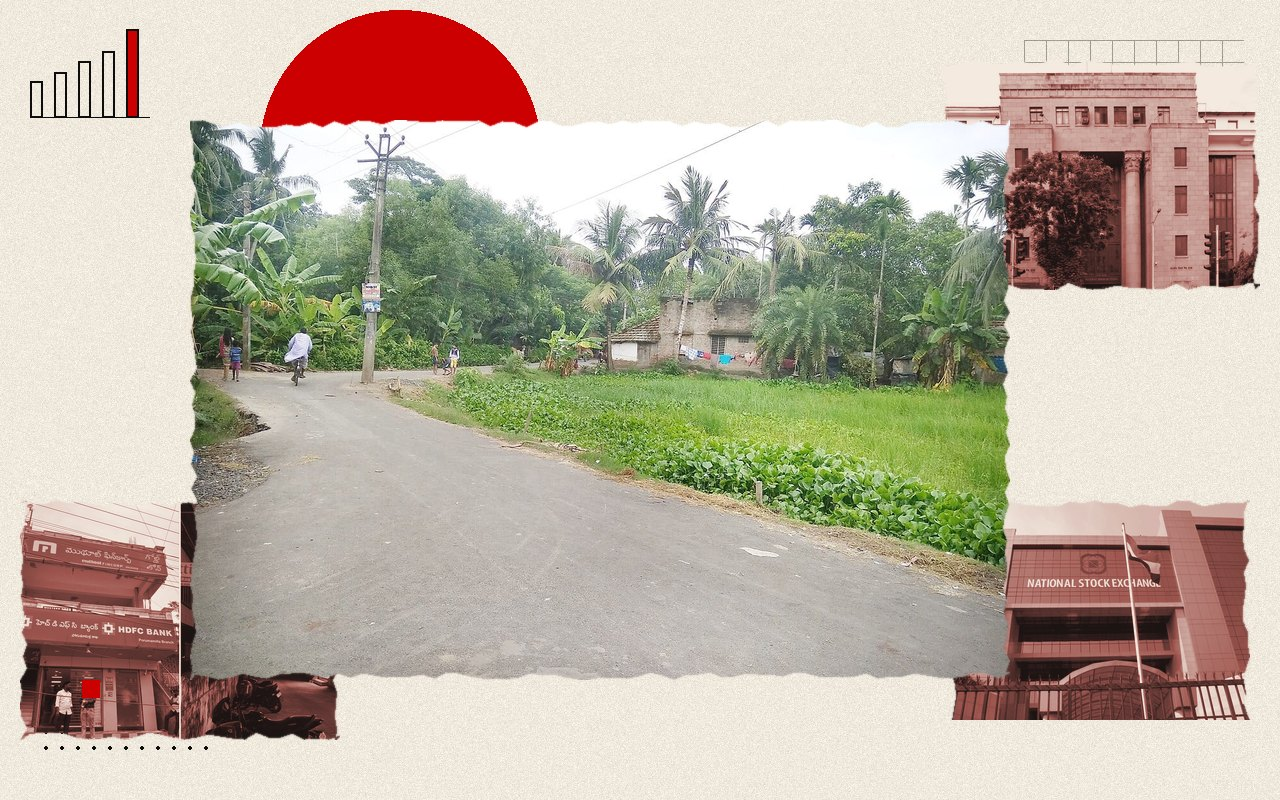
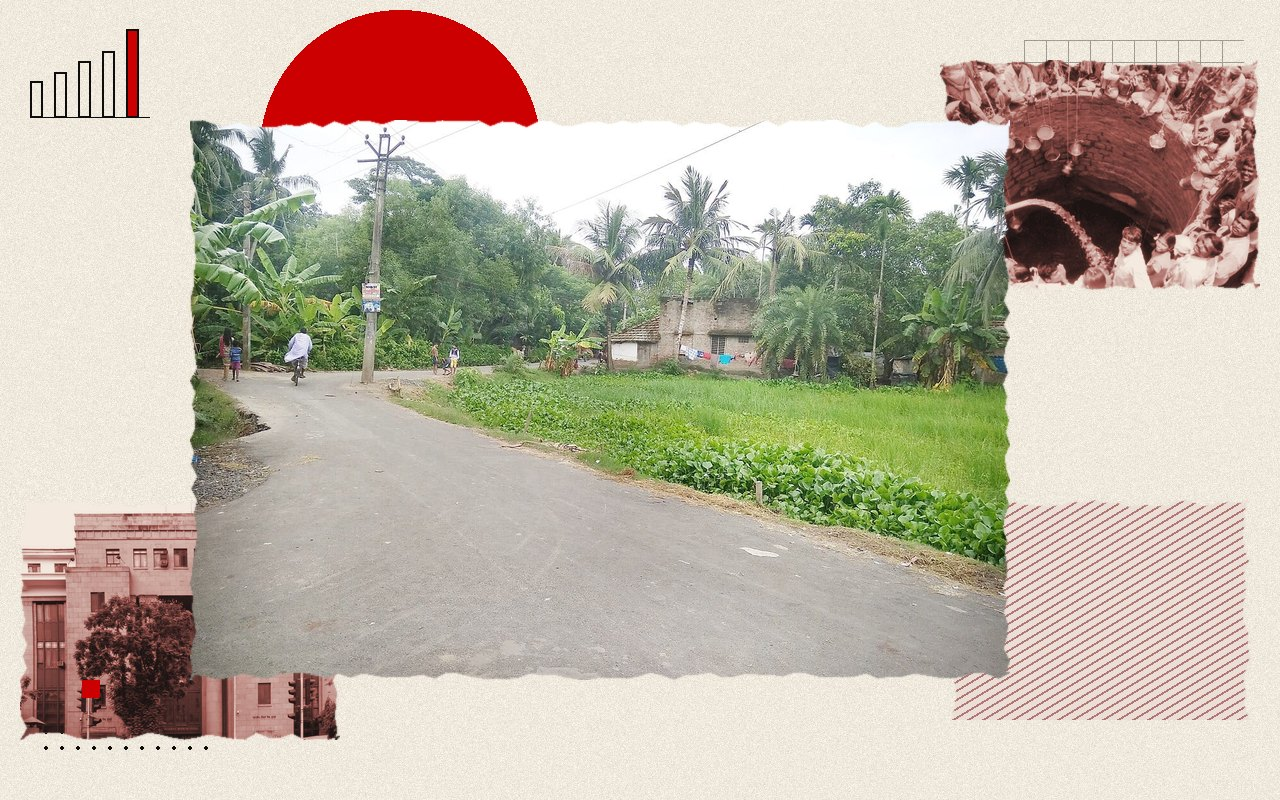
Hourly 11:00 IST (second publish): collage fix for rbi-panchayat-finances-grants-90-per-cent-report
The collage carried an HDFC Bank branch and the National Stock Exchange behind a panchayat finance story. Related stories changed to a rural water story and the panchayat bank-camps story; collage remade with a village well and the RBI building only. Checked by eye.

Claude-Session: https://claude.ai/code/session_01C3zerUUkjqxuU6CjgWb9if

Changed region(s): [[0.7188, 0.0625, 1.0, 0.375], [0.7188, 0.625, 1.0, 0.9062], [0.0, 0.625, 0.2812, 0.9375]]

diff --git a/content/hi/news/rbi-panchayat-finances-grants-90-per-cent-report.md b/content/hi/news/rbi-panchayat-finances-grants-90-per-cent-report.md
@@ -21,7 +21,7 @@ hero:
   alt: "पश्चिम बंगाल के नंदीग्राम का एक गांव (फ़ाइल फ़ोटो)"
   overlay:
     value: "पंचायतों का 90% पैसा हस्तांतरण से"
-related: [bank-camps-2-7-lakh-panchayats-financial-inclusion-drive, odi-outward-fdi-october-4-65-billion-adani-loan-sun-pharma]
+related: [maharashtra-drought-relief-cash-is-not-water-publish-dam-and-tanker-data, chouhan-women-farmers-recognition-sanchi, bank-camps-2-7-lakh-panchayats-financial-inclusion-drive]
 glance:
   - {icon: bank, value: "~90%", label: "ग्राम पंचायतों की प्राप्तियां अंतर-सरकारी हस्तांतरण से"}
   - {icon: house, value: "~10%", label: "अपनी आय, ज़्यादातर गैर-कर प्राप्तियां"}

diff --git a/content/en/news/rbi-panchayat-finances-grants-90-per-cent-report.md b/content/en/news/rbi-panchayat-finances-grants-90-per-cent-report.md
@@ -20,7 +20,7 @@ hero:
   alt: "A village in Nandigram, West Bengal (file photo)"
   overlay:
     value: "Panchayats: 90% of funds are transfers"
-related: [bank-camps-2-7-lakh-panchayats-financial-inclusion-drive, odi-outward-fdi-october-4-65-billion-adani-loan-sun-pharma]
+related: [maharashtra-drought-relief-cash-is-not-water-publish-dam-and-tanker-data, chouhan-women-farmers-recognition-sanchi, bank-camps-2-7-lakh-panchayats-financial-inclusion-drive]
 glance:
   - {icon: bank, value: "~90%", label: "of gram panchayat receipts are intergovernmental transfers"}
   - {icon: house, value: "~10%", label: "is own-source revenue, mostly non-tax receipts"}
